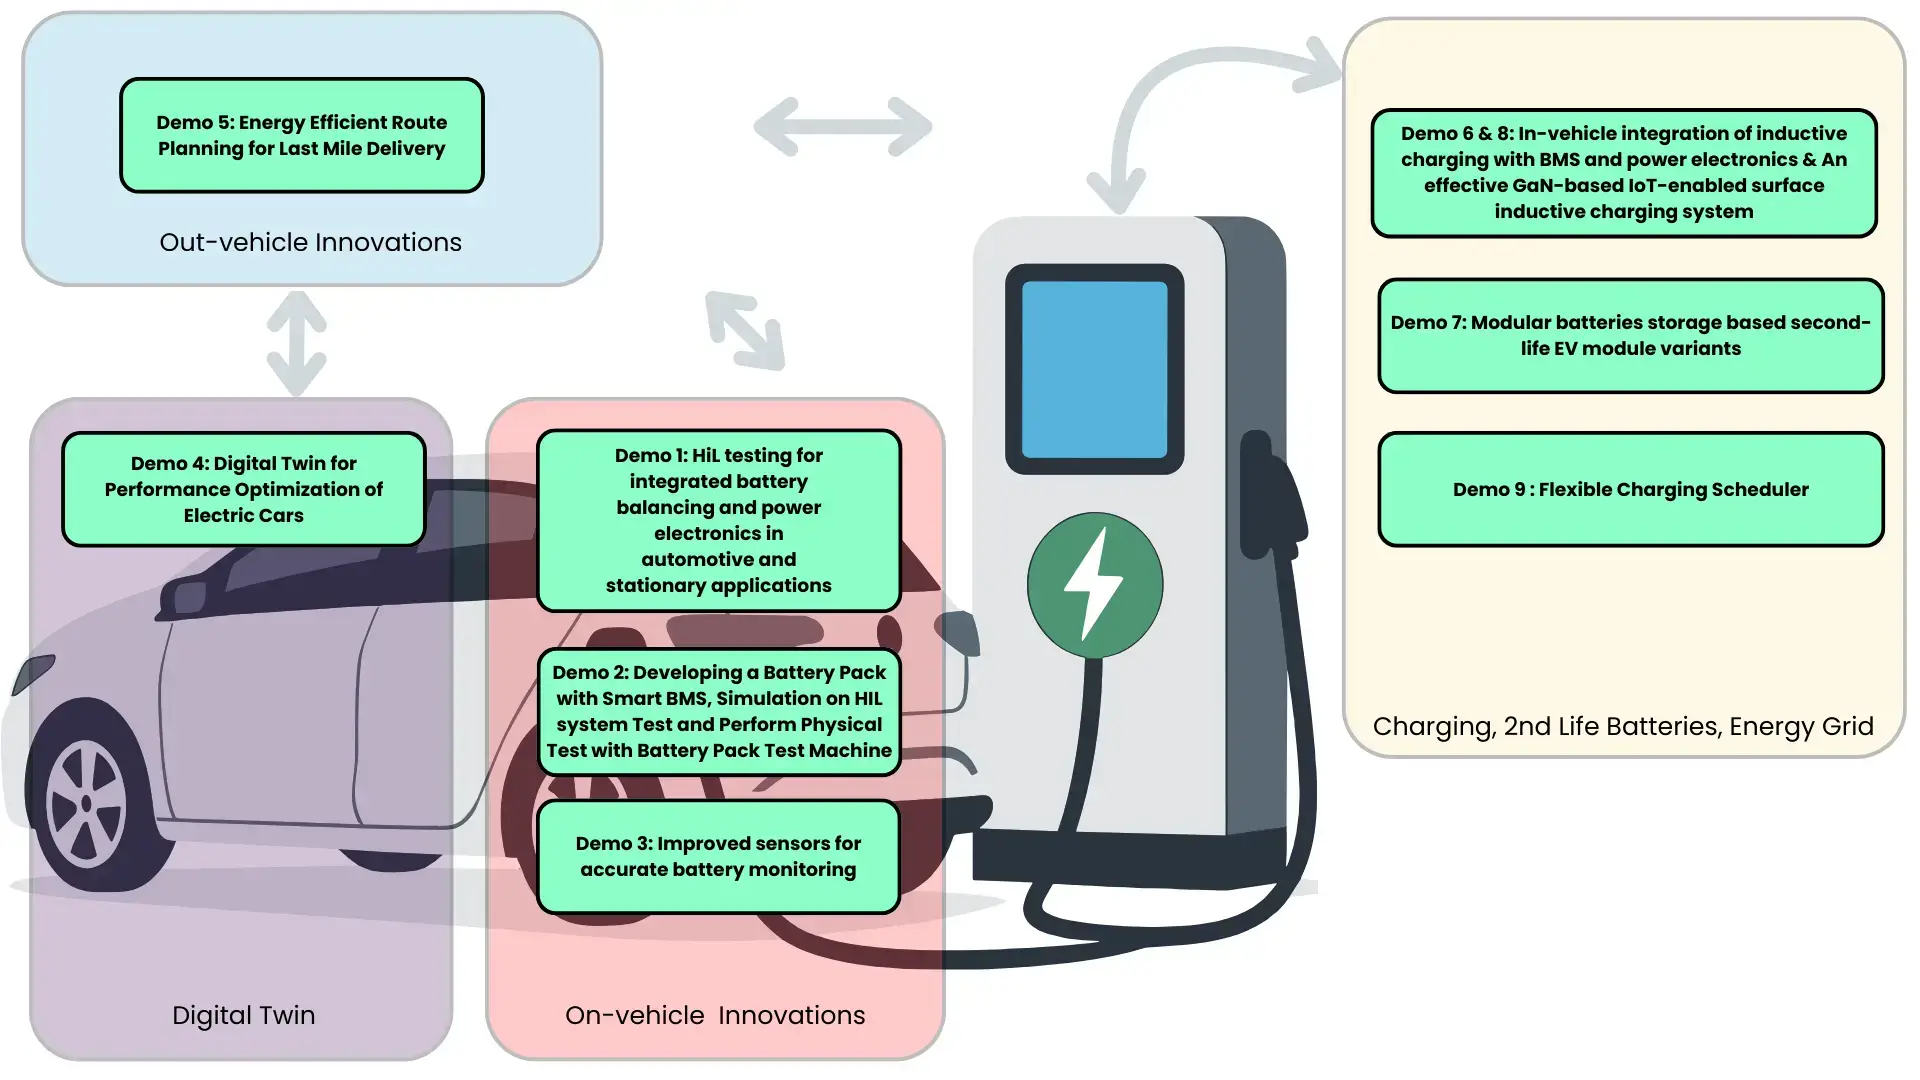
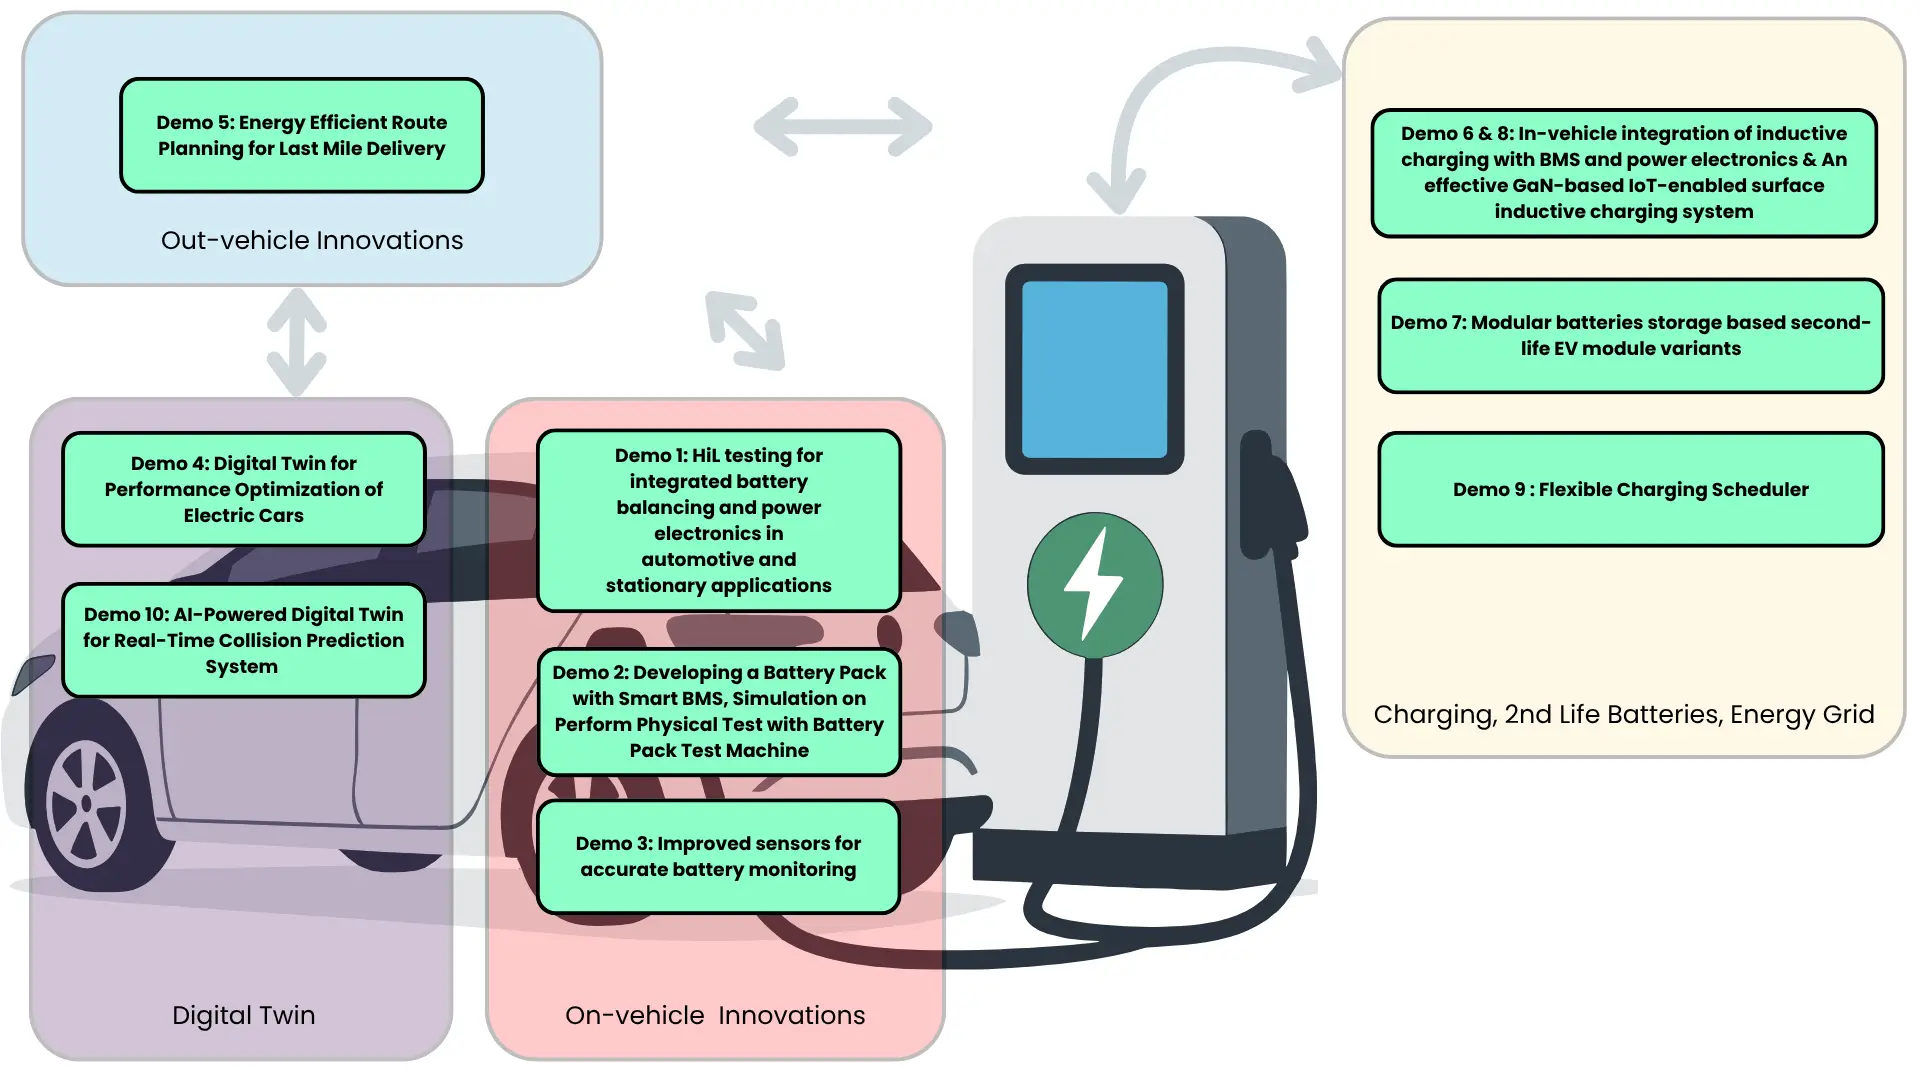
feat: Update hotspot styles and add new demo link for enhanced navigation

diff --git a/src/main/resources/static/css/style.css b/src/main/resources/static/css/style.css
@@ -44,7 +44,7 @@ body {
 .hotspot {
   position: absolute;
   z-index: 5;
-  border-radius: 6%;
+  border-radius: 10px;
   background: rgba(255, 255, 255, 0);
   text-decoration: none;
 }
@@ -55,8 +55,9 @@ body {
   cursor: pointer;
 }
 
-.demo5 { left: 6.5%; top: 7.6%; width: 18.4%; height: 9.8%; }
+.demo5 { left: 6.5%; top: 7.6%; width: 18.4%; height: 9.8%;}
 .demo4 { left: 3.4%; top: 40.2%; width: 18.6%; height: 10.1%; }
+.demo10 { left: 3.4%; top: 54.2%; width: 18.6%; height: 9.9%;}
 .demo1 { left: 28.1%; top: 40%; width: 18.7%; height: 16.4%; }
 .demo2 { left: 28.1%; top: 60.2%; width: 18.7%; height: 11.4%; }
 .demo3 { left: 28.1%; top: 74.3%; width: 18.6%; height: 10%; }

diff --git a/src/main/resources/static/index.html b/src/main/resources/static/index.html
@@ -26,6 +26,8 @@
     <a class="hotspot demo7" href="demo/demo7.html" aria-label="Open Demo 7"></a>
     <a class="hotspot demo9" href="demo/demo9.html" aria-label="Open Demo 9"></a>
 
+    <a class="hotspot demo10" href="demo/demo10.html" aria-label="Open Demo 10"></a>
+
     <a class="logo" href="https://opeva.eu/" target="_blank" rel="noopener noreferrer">
       <img src="img/logo.webp" alt="logo">
     </a>
